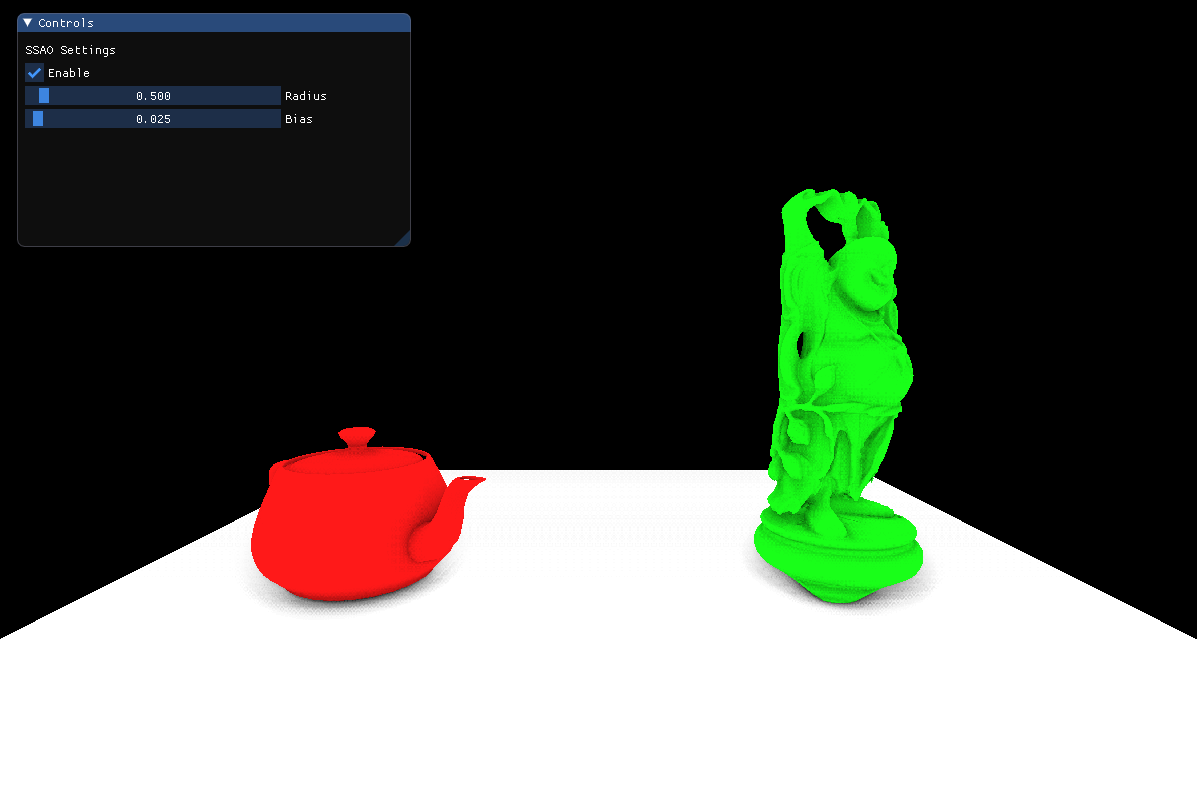
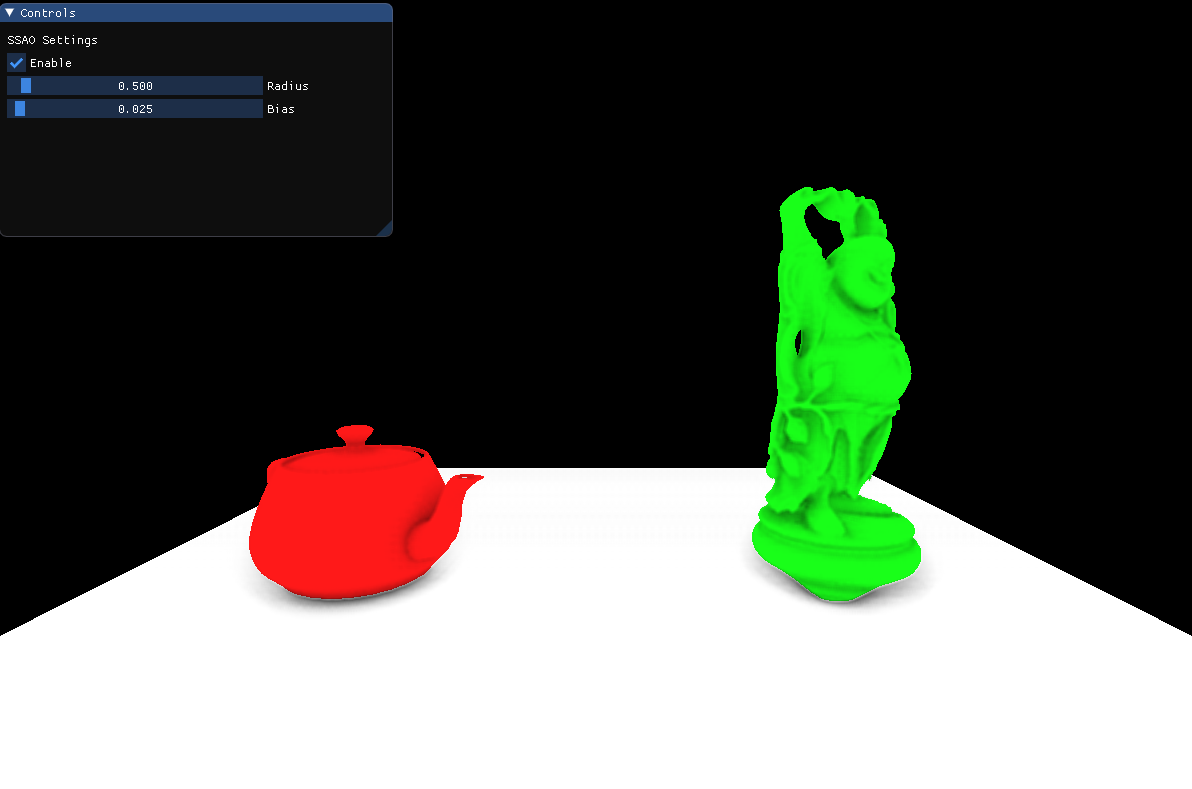
Ambient occlusion sample clean-up

diff --git a/samples/ambient-occlusion/ambient-occlusion.cpp b/samples/ambient-occlusion/ambient-occlusion.cpp
@@ -22,10 +22,10 @@ class ambient_occlusion_sample_t : public application_t
 {
 public:
   ambient_occlusion_sample_t()
-    :application_t("Screen-space Ambient occlusion", 1200u, 800u, 3u),
+    :application_t("Screen-space ambient occlusion", 1200u, 800u, 3u),
     cameraController_(vec3(0.0f, 4.0f, 12.0f), vec2(0.1f, 0.0f), 1.0f, 0.01f),
     ssaoEnabled_(true),
-    ssaoSampleCount(64u),
+    ssaoSampleCount_(64u),
     ssaoRadius_(0.5f),
     ssaoBias_(0.025f)
   {
@@ -65,12 +65,12 @@ public:
     mat4 transform = createTransform(vec3(-5.0f, -1.0f, 0.0f), VEC3_ONE, quaternionFromAxisAngle(vec3(0.0f, 1.0f, 0.0f), degreeToRadian(30.0f)));
     renderer.actorCreate("teapot", teapot, material0, transform);
 
-    transform = createTransform(vec3(5.0f, 3.0f, 0.0f), vec3(4.0f,4.0f,4.0f), maths::quaternionFromAxisAngle(vec3(1, 0, 0), maths::degreeToRadian(90.0f))*maths::quaternionFromAxisAngle(vec3(0, 1, 0), maths::degreeToRadian(-30.0f)));
+    transform = createTransform(vec3(5.0f, 3.0f, 0.0f), vec3(4.0f, 4.0f, 4.0f), maths::quaternionFromAxisAngle(vec3(1, 0, 0), maths::degreeToRadian(90.0f))*maths::quaternionFromAxisAngle(vec3(0, 1, 0), maths::degreeToRadian(-30.0f)));
     renderer.actorCreate("buddha", buddha, material1, transform);
 
     transform = createTransform(vec3(0.0f, -1.0f, 0.0f), vec3(20.0f, 20.0f, 20.0f), quaternionFromAxisAngle(vec3(1, 0, 0), degreeToRadian(90.0f)));
     renderer.actorCreate("plane", plane, material2, transform);
-  
+
     generateSSAOResources();
 
     //create camera
@@ -81,23 +81,24 @@ public:
   void generateSSAOResources()
   {
     //Generate random points in the normal-oriented hemishpere (in tangent space)
-    std::vector<vec4> samples(ssaoSampleCount);
-    for (uint32_t i = 0; i < ssaoSampleCount; i++)
+    std::vector<vec4> samples(ssaoSampleCount_);
+    for (uint32_t i = 0; i < ssaoSampleCount_; i++)
     {
-      vec3 sample = normalize( vec3(random(-1.0f, 1.0f),
-                                    random(-1.0f, 1.0f),
-                                    random(0.0f, 1.0f)));
+      vec3 sample = normalize(vec3(random(-1.0f, 1.0f),
+        random(-1.0f, 1.0f),
+        random(0.0f, 1.0f)));
 
       sample *= random(0.0f, 1.0f);
       samples[i] = vec4(sample, 1.0f);
     }
 
+
     render::context_t& context = getRenderContext();
     render::gpuBufferCreate(context, render::gpu_buffer_t::usage_e::STORAGE_BUFFER,
       render::gpu_memory_type_e::HOST_VISIBLE_COHERENT,
-      samples.data(), sizeof(vec4)*ssaoSampleCount, nullptr,
-      &ssaoKernelBuffer_ );
-    
+      samples.data(), sizeof(vec4)*ssaoSampleCount_, nullptr,
+      &ssaoKernelBuffer_);
+
     //Create a texture with random rotation vectors that will be tiled across the screen
     //to add some noise to the result
     image::image2D_t image = {};
@@ -108,20 +109,29 @@ public:
     image.data = new uint8_t[image.dataSize];
     vec4* data = (vec4*)image.data;
     for (uint32_t i = 0; i < 16; ++i)
-      data[i] = vec4( random(-1.0f, 1.0f), random(-1.0f, 1.0f), 0.0f, 0.0f );
+      data[i] = vec4(random(-1.0f, 1.0f), random(-1.0f, 1.0f), 0.0f, 0.0f);
 
     render::texture2DCreate(context, &image, 1u, render::texture_sampler_t(), &ssaoNoise_);
     image::free(&image);
 
-    //Create and configure ssao material 
+    //Create a framebuffer for ssao
     renderer_t& renderer = getRenderer();
-    shader_handle_t shader = renderer.shaderCreate("../ambient-occlusion/ssao.shader");
-    ssaoMaterial_ = renderer.materialCreate(shader);
-    material_t* ssaoMaterial = renderer.getMaterial(ssaoMaterial_);
-    ssaoMaterial->setBuffer("ssaoKernel", ssaoKernelBuffer_);
-    ssaoMaterial->setTexture("GBuffer0", colorRT_);
-    ssaoMaterial->setTexture("GBuffer1", normalDepthRT_);
-    ssaoMaterial->setTexture("ssaoNoise", ssaoNoise_ );
+    ssaoRT_ = renderer.renderTargetCreate(getWindowSize().x, getWindowSize().y, VK_FORMAT_R16_SFLOAT, false);
+    ssaoFBO_ = renderer.frameBufferCreate(&ssaoRT_, 1u);
+
+    //Create and configure ssao material 
+    shader_handle_t ssaoShader = renderer.shaderCreate("../ambient-occlusion/ssao.shader");
+    ssaoMaterial_ = renderer.materialCreate(ssaoShader);
+    material_t* ssaoMaterialPtr = renderer.getMaterial(ssaoMaterial_);
+    ssaoMaterialPtr->setBuffer("ssaoKernel", ssaoKernelBuffer_);
+    ssaoMaterialPtr->setTexture("normalDepthTexture", normalDepthRT_);
+    ssaoMaterialPtr->setTexture("ssaoNoise", ssaoNoise_);
+
+    //Create and configure blur material
+    shader_handle_t blurShader = renderer.shaderCreate("../ambient-occlusion/blur.shader");
+    blurMaterial_ = renderer.materialCreate(blurShader);
+    material_t* blurMaterialPtr = renderer.getMaterial(blurMaterial_);
+    blurMaterialPtr->setTexture("sceneColorTexture", colorRT_);
   }
 
   void onKeyEvent(u32 key, bool pressed)
@@ -173,7 +183,7 @@ public:
   {
     beginFrame();
 
-    renderer_t& renderer = getRenderer();        
+    renderer_t& renderer = getRenderer();
     renderer.setupCamera(camera_);
 
     actor_t* visibleActors = nullptr;
@@ -189,19 +199,23 @@ public:
     if (ssaoEnabled_)
     {
       material_t* ssaoMaterialPtr = renderer.getMaterial(ssaoMaterial_);
-      ssaoMaterialPtr->setProperty("globals.radius", ssaoRadius_);
-      ssaoMaterialPtr->setProperty("globals.bias", ssaoBias_);
+      ssaoMaterialPtr->setProperty("globals.radius", &ssaoRadius_);
+      ssaoMaterialPtr->setProperty("globals.bias", &ssaoBias_);
+      ssaoMaterialPtr->setProperty("globals.sampleCount", &ssaoSampleCount_);
+
+      command_buffer_t ssaoPass = command_buffer_t(&renderer, ssaoFBO_);
+      ssaoPass.blit(NULL_HANDLE, ssaoMaterial_);
+      ssaoPass.submit();
+      ssaoPass.release();
 
       command_buffer_t blitToBackbufferCmd = command_buffer_t(&renderer);
-      blitToBackbufferCmd.clearRenderTargets(vec4(0.0f, 0.0f, 0.0f, 1.0f));
-      blitToBackbufferCmd.blit(NULL_HANDLE, ssaoMaterial_);
+      blitToBackbufferCmd.blit(ssaoRT_, blurMaterial_);
       blitToBackbufferCmd.submit();
       blitToBackbufferCmd.release();
     }
     else
     {
       command_buffer_t blitToBackbufferCmd = command_buffer_t(&renderer);
-      blitToBackbufferCmd.clearRenderTargets(vec4(0.0f, 0.0f, 0.0f, 1.0f));
       blitToBackbufferCmd.blit(colorRT_);
       blitToBackbufferCmd.submit();
       blitToBackbufferCmd.release();
@@ -225,18 +239,21 @@ private:
   frame_buffer_handle_t sceneFBO_;
   render_target_handle_t colorRT_;
   render_target_handle_t normalDepthRT_;
-  
+
   camera_handle_t camera_;
   free_camera_t cameraController_;
 
   //SSAO
   bool ssaoEnabled_;
-  uint32_t ssaoSampleCount;
+  uint32_t ssaoSampleCount_;
   float ssaoRadius_;
   float ssaoBias_;
+  frame_buffer_handle_t ssaoFBO_;
+  render_target_handle_t ssaoRT_;
   material_handle_t ssaoMaterial_;
   render::gpu_buffer_t ssaoKernelBuffer_;
   render::texture_t ssaoNoise_;
+  material_handle_t blurMaterial_;
 };
 
 int main()

diff --git a/include/framework/material.h b/include/framework/material.h
@@ -33,6 +33,7 @@ namespace bkk
         material_t(shader_handle_t shader, renderer_t* renderer );
 
         bool setProperty(const char* property, float value);
+        bool setProperty(const char* property, uint32_t value);
         bool setProperty(const char* property, const core::maths::vec2& value);
         bool setProperty(const char* property, const core::maths::vec3& value);
         bool setProperty(const char* property, const core::maths::vec4& value);

diff --git a/src/framework/material.cpp b/src/framework/material.cpp
@@ -100,6 +100,11 @@ bool material_t::setProperty(const char* property, float value)
   return setProperty(property, (void*)&value);
 }
 
+bool material_t::setProperty(const char* property, uint32_t value)
+{
+  return setProperty(property, (void*)&value);
+}
+
 bool material_t::setProperty(const char* property, const maths::vec2& value) 
 {
   return setProperty(property, (void*)&value);
